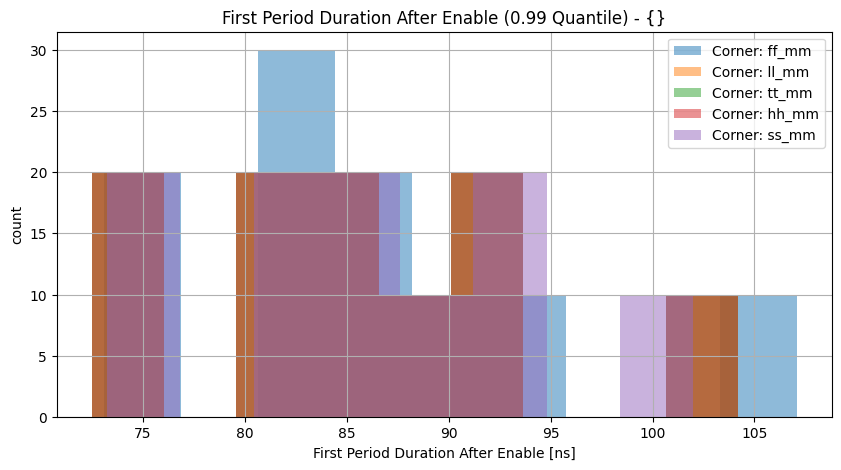
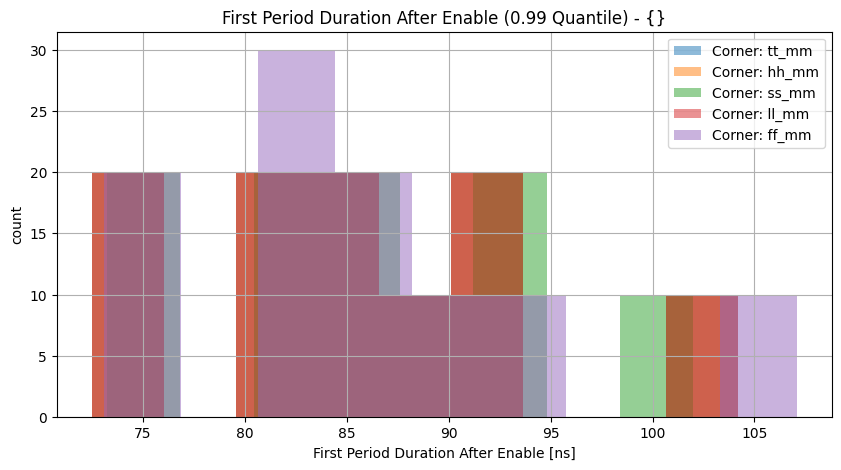
Jenkins update

diff --git a/riosc/riosc/Readme.md b/riosc/riosc/Readme.md
@@ -1,4 +1,4 @@
-02.09.2024, 12:15:52
+02.09.2024, 13:50:40
 
 # Ring Oscillator
 
@@ -43,9 +43,9 @@ LVS-state: Netlists match uniquely.<br>
 
 | Parameter | Min (Spec. / Sim.) |      | Max (Sim. / Spec.) | Unit | Checks (total/pass/fail/NaN) | Comment |
 | :-------- | -----------------: | :--: | :----------------- | :--- | :--------------------------- | ------- |
-| High Duration | 10.0 / 46.695 | <svg height="20" width="150"><polyline points="3.0,3,3.0,17,147.0,17,147.0,3" style="fill:none;stroke:gray;stroke-width:1" /><polyline points="75.0,10.0,75.0,17" style="fill:none;stroke:gray;stroke-width:1" /><polyline points="61.711999999999996,10.0,90.192,10.0" style="stroke:green;stroke-width:2" /><circle cx="61.711999999999996" cy="10.0" r="3" style="fill:green;stroke:green;stroke-width:0" /><circle cx="90.192" cy="10.0" r="3" style="fill:green;stroke:green;stroke-width:0" /></svg> | 64.495 / 100.0 | ns | 45/100.0%/0.0%/0.0% | Last period before oscillator disable |
-| Period Duration | 20.0 / 96.076 | <svg height="20" width="150"><polyline points="3.0,3,3.0,17,147.0,17,147.0,3" style="fill:none;stroke:gray;stroke-width:1" /><polyline points="75.0,10.0,75.0,17" style="fill:none;stroke:gray;stroke-width:1" /><polyline points="63.860775999999994,10.0,95.77224,10.0" style="stroke:green;stroke-width:2" /><circle cx="63.860775999999994" cy="10.0" r="3" style="fill:green;stroke:green;stroke-width:0" /><circle cx="95.77224" cy="10.0" r="3" style="fill:green;stroke:green;stroke-width:0" /></svg> | 135.965 / 200.0 | ns | 45/100.0%/0.0%/0.0% | First period after oscillator enable |
-| Duty-Cycle | 40 / 45.678 | <svg height="20" width="150"><polyline points="3.0,3,3.0,17,147.0,17,147.0,3" style="fill:none;stroke:gray;stroke-width:1" /><polyline points="75.0,10.0,75.0,17" style="fill:none;stroke:gray;stroke-width:1" /><polyline points="43.88361600000001,10.0,78.70202400000001,10.0" style="stroke:green;stroke-width:2" /><circle cx="43.88361600000001" cy="10.0" r="3" style="fill:green;stroke:green;stroke-width:0" /><circle cx="78.70202400000001" cy="10.0" r="3" style="fill:green;stroke:green;stroke-width:0" /></svg> | 50.514 / 60 | % | 45/100.0%/0.0%/0.0% | First period after oscillator enable |
+| High Duration | 10.0 / 48.316 | <svg height="20" width="150"><polyline points="3.0,3,3.0,17,147.0,17,147.0,3" style="fill:none;stroke:gray;stroke-width:1" /><polyline points="75.0,10.0,75.0,17" style="fill:none;stroke:gray;stroke-width:1" /><polyline points="64.3056,10.0,93.3888,10.0" style="stroke:green;stroke-width:2" /><circle cx="64.3056" cy="10.0" r="3" style="fill:green;stroke:green;stroke-width:0" /><circle cx="93.3888" cy="10.0" r="3" style="fill:green;stroke:green;stroke-width:0" /></svg> | 66.493 / 100.0 | ns | 45/100.0%/0.0%/0.0% | Last period before oscillator disable |
+| Period Duration | 20.0 / 98.712 | <svg height="20" width="150"><polyline points="3.0,3,3.0,17,147.0,17,147.0,3" style="fill:none;stroke:gray;stroke-width:1" /><polyline points="75.0,10.0,75.0,17" style="fill:none;stroke:gray;stroke-width:1" /><polyline points="65.969944,10.0,98.55216,10.0" style="stroke:green;stroke-width:2" /><circle cx="65.969944" cy="10.0" r="3" style="fill:green;stroke:green;stroke-width:0" /><circle cx="98.55216" cy="10.0" r="3" style="fill:green;stroke:green;stroke-width:0" /></svg> | 139.44 / 200.0 | ns | 45/100.0%/0.0%/0.0% | First period after oscillator enable |
+| Duty-Cycle | 40 / 46.187 | <svg height="20" width="150"><polyline points="3.0,3,3.0,17,147.0,17,147.0,3" style="fill:none;stroke:gray;stroke-width:1" /><polyline points="75.0,10.0,75.0,17" style="fill:none;stroke:gray;stroke-width:1" /><polyline points="47.54481599999999,10.0,81.80731199999998,10.0" style="stroke:green;stroke-width:2" /><circle cx="47.54481599999999" cy="10.0" r="3" style="fill:green;stroke:green;stroke-width:0" /><circle cx="81.80731199999998" cy="10.0" r="3" style="fill:green;stroke:green;stroke-width:0" /></svg> | 50.945 / 60 | % | 45/100.0%/0.0%/0.0% | First period after oscillator enable |
 
 <br>
 
@@ -54,9 +54,9 @@ LVS-state: Netlists match uniquely.<br>
 
 | Parameter | Min (Spec. / Sim.) |      | Max (Sim. / Spec.) | Unit | Checks (total/pass/fail/NaN) | Comment |
 | :-------- | -----------------: | :--: | :----------------- | :--- | :--------------------------- | ------- |
-| High Duration | 10.0 / 43.339 | <svg height="20" width="150"><polyline points="3.0,3,3.0,17,147.0,17,147.0,3" style="fill:none;stroke:gray;stroke-width:1" /><polyline points="75.0,10.0,75.0,17" style="fill:none;stroke:gray;stroke-width:1" /><polyline points="56.342400000000005,10.0,81.4288,10.0" style="stroke:green;stroke-width:2" /><circle cx="56.342400000000005" cy="10.0" r="3" style="fill:green;stroke:green;stroke-width:0" /><circle cx="81.4288" cy="10.0" r="3" style="fill:green;stroke:green;stroke-width:0" /></svg> | 59.018 / 100.0 | ns | 500/100.0%/0.0%/0.0% | Last period before oscillator disable |
-| Period Duration | 20.0 / 88.919 | <svg height="20" width="150"><polyline points="3.0,3,3.0,17,147.0,17,147.0,3" style="fill:none;stroke:gray;stroke-width:1" /><polyline points="75.0,10.0,75.0,17" style="fill:none;stroke:gray;stroke-width:1" /><polyline points="58.13498400000001,10.0,83.8624,10.0" style="stroke:green;stroke-width:2" /><circle cx="58.13498400000001" cy="10.0" r="3" style="fill:green;stroke:green;stroke-width:0" /><circle cx="83.8624" cy="10.0" r="3" style="fill:green;stroke:green;stroke-width:0" /></svg> | 121.078 / 200.0 | ns | 500/100.0%/0.0%/0.0% | First period after oscillator enable |
-| Duty-Cycle | 40 / 44.035 | <svg height="20" width="150"><polyline points="3.0,3,3.0,17,147.0,17,147.0,3" style="fill:none;stroke:gray;stroke-width:1" /><polyline points="75.0,10.0,75.0,17" style="fill:none;stroke:gray;stroke-width:1" /><polyline points="32.05300799999999,10.0,88.67877600000001,10.0" style="stroke:green;stroke-width:2" /><circle cx="32.05300799999999" cy="10.0" r="3" style="fill:green;stroke:green;stroke-width:0" /><circle cx="88.67877600000001" cy="10.0" r="3" style="fill:green;stroke:green;stroke-width:0" /></svg> | 51.9 / 60 | % | 500/100.0%/0.0%/0.0% | First period after oscillator enable |
+| High Duration | 10.0 / 44.629 | <svg height="20" width="150"><polyline points="3.0,3,3.0,17,147.0,17,147.0,3" style="fill:none;stroke:gray;stroke-width:1" /><polyline points="75.0,10.0,75.0,17" style="fill:none;stroke:gray;stroke-width:1" /><polyline points="58.4064,10.0,82.7296,10.0" style="stroke:green;stroke-width:2" /><circle cx="58.4064" cy="10.0" r="3" style="fill:green;stroke:green;stroke-width:0" /><circle cx="82.7296" cy="10.0" r="3" style="fill:green;stroke:green;stroke-width:0" /></svg> | 59.831 / 100.0 | ns | 250/100.0%/0.0%/0.0% | Last period before oscillator disable |
+| Period Duration | 20.0 / 92.108 | <svg height="20" width="150"><polyline points="3.0,3,3.0,17,147.0,17,147.0,3" style="fill:none;stroke:gray;stroke-width:1" /><polyline points="75.0,10.0,75.0,17" style="fill:none;stroke:gray;stroke-width:1" /><polyline points="60.686448000000006,10.0,85.34544,10.0" style="stroke:green;stroke-width:2" /><circle cx="60.686448000000006" cy="10.0" r="3" style="fill:green;stroke:green;stroke-width:0" /><circle cx="85.34544" cy="10.0" r="3" style="fill:green;stroke:green;stroke-width:0" /></svg> | 122.932 / 200.0 | ns | 250/100.0%/0.0%/0.0% | First period after oscillator enable |
+| Duty-Cycle | 40 / 45.938 | <svg height="20" width="150"><polyline points="3.0,3,3.0,17,147.0,17,147.0,3" style="fill:none;stroke:gray;stroke-width:1" /><polyline points="75.0,10.0,75.0,17" style="fill:none;stroke:gray;stroke-width:1" /><polyline points="45.75388800000001,10.0,85.52942400000002,10.0" style="stroke:green;stroke-width:2" /><circle cx="45.75388800000001" cy="10.0" r="3" style="fill:green;stroke:green;stroke-width:0" /><circle cx="85.52942400000002" cy="10.0" r="3" style="fill:green;stroke:green;stroke-width:0" /></svg> | 51.462 / 60 | % | 250/100.0%/0.0%/0.0% | First period after oscillator enable |
 
 <br>
 

diff --git a/riosc/riosc/specReport.md b/riosc/riosc/specReport.md
@@ -25,9 +25,9 @@
 
 | Parameter | Min (Spec. / Sim.) |      | Max (Sim. / Spec.) | Unit | Checks (total/pass/fail/NaN) | Comment |
 | :-------- | -----------------: | :--: | :----------------- | :--- | :--------------------------- | ------- |
-| High Duration | 10.0 / 46.695 | <svg height="20" width="150"><polyline points="3.0,3,3.0,17,147.0,17,147.0,3" style="fill:none;stroke:gray;stroke-width:1" /><polyline points="75.0,10.0,75.0,17" style="fill:none;stroke:gray;stroke-width:1" /><polyline points="61.711999999999996,10.0,90.192,10.0" style="stroke:green;stroke-width:2" /><circle cx="61.711999999999996" cy="10.0" r="3" style="fill:green;stroke:green;stroke-width:0" /><circle cx="90.192" cy="10.0" r="3" style="fill:green;stroke:green;stroke-width:0" /></svg> | 64.495 / 100.0 | ns | 45/100.0%/0.0%/0.0% | Last period before oscillator disable |
-| Period Duration | 20.0 / 96.076 | <svg height="20" width="150"><polyline points="3.0,3,3.0,17,147.0,17,147.0,3" style="fill:none;stroke:gray;stroke-width:1" /><polyline points="75.0,10.0,75.0,17" style="fill:none;stroke:gray;stroke-width:1" /><polyline points="63.860775999999994,10.0,95.77224,10.0" style="stroke:green;stroke-width:2" /><circle cx="63.860775999999994" cy="10.0" r="3" style="fill:green;stroke:green;stroke-width:0" /><circle cx="95.77224" cy="10.0" r="3" style="fill:green;stroke:green;stroke-width:0" /></svg> | 135.965 / 200.0 | ns | 45/100.0%/0.0%/0.0% | First period after oscillator enable |
-| Duty-Cycle | 40 / 45.678 | <svg height="20" width="150"><polyline points="3.0,3,3.0,17,147.0,17,147.0,3" style="fill:none;stroke:gray;stroke-width:1" /><polyline points="75.0,10.0,75.0,17" style="fill:none;stroke:gray;stroke-width:1" /><polyline points="43.88361600000001,10.0,78.70202400000001,10.0" style="stroke:green;stroke-width:2" /><circle cx="43.88361600000001" cy="10.0" r="3" style="fill:green;stroke:green;stroke-width:0" /><circle cx="78.70202400000001" cy="10.0" r="3" style="fill:green;stroke:green;stroke-width:0" /></svg> | 50.514 / 60 | % | 45/100.0%/0.0%/0.0% | First period after oscillator enable |
+| High Duration | 10.0 / 48.316 | <svg height="20" width="150"><polyline points="3.0,3,3.0,17,147.0,17,147.0,3" style="fill:none;stroke:gray;stroke-width:1" /><polyline points="75.0,10.0,75.0,17" style="fill:none;stroke:gray;stroke-width:1" /><polyline points="64.3056,10.0,93.3888,10.0" style="stroke:green;stroke-width:2" /><circle cx="64.3056" cy="10.0" r="3" style="fill:green;stroke:green;stroke-width:0" /><circle cx="93.3888" cy="10.0" r="3" style="fill:green;stroke:green;stroke-width:0" /></svg> | 66.493 / 100.0 | ns | 45/100.0%/0.0%/0.0% | Last period before oscillator disable |
+| Period Duration | 20.0 / 98.712 | <svg height="20" width="150"><polyline points="3.0,3,3.0,17,147.0,17,147.0,3" style="fill:none;stroke:gray;stroke-width:1" /><polyline points="75.0,10.0,75.0,17" style="fill:none;stroke:gray;stroke-width:1" /><polyline points="65.969944,10.0,98.55216,10.0" style="stroke:green;stroke-width:2" /><circle cx="65.969944" cy="10.0" r="3" style="fill:green;stroke:green;stroke-width:0" /><circle cx="98.55216" cy="10.0" r="3" style="fill:green;stroke:green;stroke-width:0" /></svg> | 139.44 / 200.0 | ns | 45/100.0%/0.0%/0.0% | First period after oscillator enable |
+| Duty-Cycle | 40 / 46.187 | <svg height="20" width="150"><polyline points="3.0,3,3.0,17,147.0,17,147.0,3" style="fill:none;stroke:gray;stroke-width:1" /><polyline points="75.0,10.0,75.0,17" style="fill:none;stroke:gray;stroke-width:1" /><polyline points="47.54481599999999,10.0,81.80731199999998,10.0" style="stroke:green;stroke-width:2" /><circle cx="47.54481599999999" cy="10.0" r="3" style="fill:green;stroke:green;stroke-width:0" /><circle cx="81.80731199999998" cy="10.0" r="3" style="fill:green;stroke:green;stroke-width:0" /></svg> | 50.945 / 60 | % | 45/100.0%/0.0%/0.0% | First period after oscillator enable |
 
 <br>
 
@@ -36,9 +36,9 @@
 
 | Parameter | Min (Spec. / Sim.) |      | Max (Sim. / Spec.) | Unit | Checks (total/pass/fail/NaN) | Comment |
 | :-------- | -----------------: | :--: | :----------------- | :--- | :--------------------------- | ------- |
-| High Duration | 10.0 / 43.339 | <svg height="20" width="150"><polyline points="3.0,3,3.0,17,147.0,17,147.0,3" style="fill:none;stroke:gray;stroke-width:1" /><polyline points="75.0,10.0,75.0,17" style="fill:none;stroke:gray;stroke-width:1" /><polyline points="56.342400000000005,10.0,81.4288,10.0" style="stroke:green;stroke-width:2" /><circle cx="56.342400000000005" cy="10.0" r="3" style="fill:green;stroke:green;stroke-width:0" /><circle cx="81.4288" cy="10.0" r="3" style="fill:green;stroke:green;stroke-width:0" /></svg> | 59.018 / 100.0 | ns | 500/100.0%/0.0%/0.0% | Last period before oscillator disable |
-| Period Duration | 20.0 / 88.919 | <svg height="20" width="150"><polyline points="3.0,3,3.0,17,147.0,17,147.0,3" style="fill:none;stroke:gray;stroke-width:1" /><polyline points="75.0,10.0,75.0,17" style="fill:none;stroke:gray;stroke-width:1" /><polyline points="58.13498400000001,10.0,83.8624,10.0" style="stroke:green;stroke-width:2" /><circle cx="58.13498400000001" cy="10.0" r="3" style="fill:green;stroke:green;stroke-width:0" /><circle cx="83.8624" cy="10.0" r="3" style="fill:green;stroke:green;stroke-width:0" /></svg> | 121.078 / 200.0 | ns | 500/100.0%/0.0%/0.0% | First period after oscillator enable |
-| Duty-Cycle | 40 / 44.035 | <svg height="20" width="150"><polyline points="3.0,3,3.0,17,147.0,17,147.0,3" style="fill:none;stroke:gray;stroke-width:1" /><polyline points="75.0,10.0,75.0,17" style="fill:none;stroke:gray;stroke-width:1" /><polyline points="32.05300799999999,10.0,88.67877600000001,10.0" style="stroke:green;stroke-width:2" /><circle cx="32.05300799999999" cy="10.0" r="3" style="fill:green;stroke:green;stroke-width:0" /><circle cx="88.67877600000001" cy="10.0" r="3" style="fill:green;stroke:green;stroke-width:0" /></svg> | 51.9 / 60 | % | 500/100.0%/0.0%/0.0% | First period after oscillator enable |
+| High Duration | 10.0 / 44.629 | <svg height="20" width="150"><polyline points="3.0,3,3.0,17,147.0,17,147.0,3" style="fill:none;stroke:gray;stroke-width:1" /><polyline points="75.0,10.0,75.0,17" style="fill:none;stroke:gray;stroke-width:1" /><polyline points="58.4064,10.0,82.7296,10.0" style="stroke:green;stroke-width:2" /><circle cx="58.4064" cy="10.0" r="3" style="fill:green;stroke:green;stroke-width:0" /><circle cx="82.7296" cy="10.0" r="3" style="fill:green;stroke:green;stroke-width:0" /></svg> | 59.831 / 100.0 | ns | 250/100.0%/0.0%/0.0% | Last period before oscillator disable |
+| Period Duration | 20.0 / 92.108 | <svg height="20" width="150"><polyline points="3.0,3,3.0,17,147.0,17,147.0,3" style="fill:none;stroke:gray;stroke-width:1" /><polyline points="75.0,10.0,75.0,17" style="fill:none;stroke:gray;stroke-width:1" /><polyline points="60.686448000000006,10.0,85.34544,10.0" style="stroke:green;stroke-width:2" /><circle cx="60.686448000000006" cy="10.0" r="3" style="fill:green;stroke:green;stroke-width:0" /><circle cx="85.34544" cy="10.0" r="3" style="fill:green;stroke:green;stroke-width:0" /></svg> | 122.932 / 200.0 | ns | 250/100.0%/0.0%/0.0% | First period after oscillator enable |
+| Duty-Cycle | 40 / 45.938 | <svg height="20" width="150"><polyline points="3.0,3,3.0,17,147.0,17,147.0,3" style="fill:none;stroke:gray;stroke-width:1" /><polyline points="75.0,10.0,75.0,17" style="fill:none;stroke:gray;stroke-width:1" /><polyline points="45.75388800000001,10.0,85.52942400000002,10.0" style="stroke:green;stroke-width:2" /><circle cx="45.75388800000001" cy="10.0" r="3" style="fill:green;stroke:green;stroke-width:0" /><circle cx="85.52942400000002" cy="10.0" r="3" style="fill:green;stroke:green;stroke-width:0" /></svg> | 51.462 / 60 | % | 250/100.0%/0.0%/0.0% | First period after oscillator enable |
 
 <br>
 

diff --git a/sar8/tg/Readme.md b/sar8/tg/Readme.md
@@ -1,4 +1,4 @@
-02.09.2024, 12:15:52
+02.09.2024, 13:50:39
 
 # ADC Transmission Gate / Sample Switch
 

diff --git a/bmbg/bmbgota/Readme.md b/bmbg/bmbgota/Readme.md
@@ -1,4 +1,4 @@
-02.09.2024, 12:15:52
+02.09.2024, 13:50:39
 
 # Beta-Multiplier Bandgap OTA
 

diff --git a/bmbg/bmbg/Readme.md b/bmbg/bmbg/Readme.md
@@ -1,4 +1,4 @@
-02.09.2024, 12:15:52
+02.09.2024, 13:50:39
 
 # Beta-Multiplier Bandgap
 

diff --git a/vthref/vthref/Readme.md b/vthref/vthref/Readme.md
@@ -1,4 +1,4 @@
-02.09.2024, 12:15:52
+02.09.2024, 13:50:39
 
 # Vth Current Reference
 

diff --git a/vthref_tt/vthref/Readme.md b/vthref_tt/vthref/Readme.md
@@ -1,4 +1,4 @@
-02.09.2024, 12:15:52
+02.09.2024, 13:50:39
 
 # Vth Current Reference
 

diff --git a/sar8/cmp/Readme.md b/sar8/cmp/Readme.md
@@ -1,4 +1,4 @@
-02.09.2024, 12:15:52
+02.09.2024, 13:50:39
 
 # ADC Comparator
 

diff --git a/ldo/ldo/Readme.md b/ldo/ldo/Readme.md
@@ -1,4 +1,4 @@
-02.09.2024, 12:15:52
+02.09.2024, 13:50:40
 
 # 1.8 V LDO
 

diff --git a/sar8/sar8/Readme.md b/sar8/sar8/Readme.md
@@ -1,4 +1,4 @@
-02.09.2024, 12:15:52
+02.09.2024, 13:50:40
 
 # 5 V ADC
 

diff --git a/ldo/ldoota/Readme.md b/ldo/ldoota/Readme.md
@@ -1,4 +1,4 @@
-02.09.2024, 12:15:52
+02.09.2024, 13:50:40
 
 # LDO OP
 
